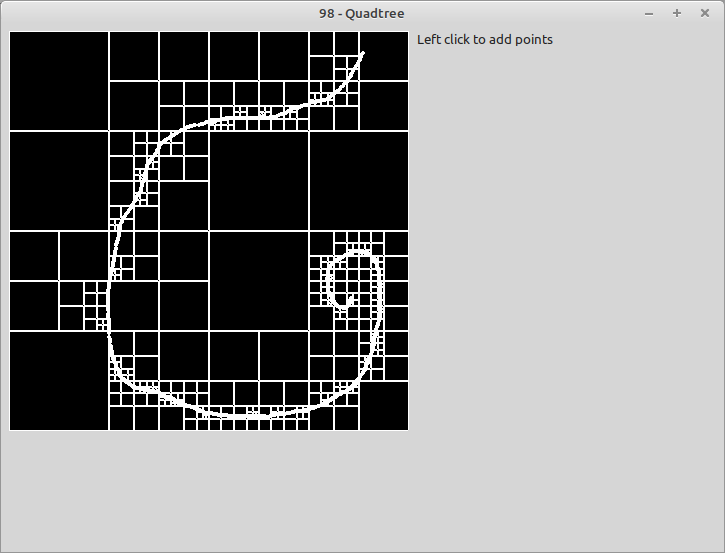
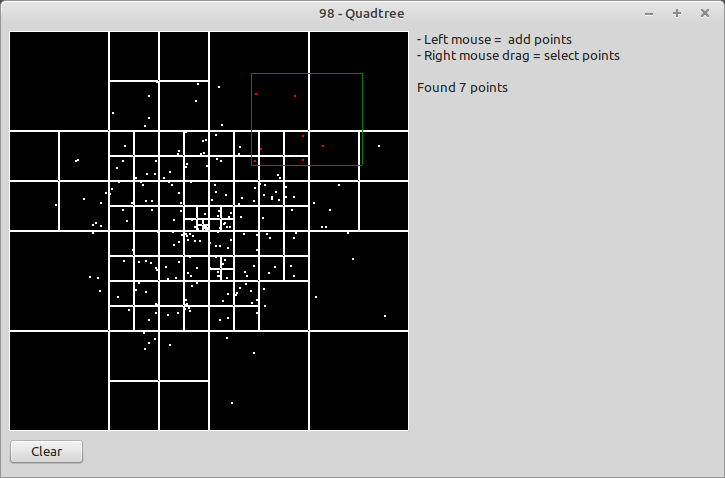
ADD: part2

Changed region(s): [[0.0, 0.0, 0.8497, 0.9958], [0.5766, 0.1757, 0.6979, 0.205]]

diff --git a/code/098 - QuadTree/Readme.md b/code/098 - QuadTree/Readme.md
@@ -7,6 +7,6 @@ The challange is split up into 3 videos
 - [Part2](https://www.youtube.com/watch?v=QQx_NmCIuCY)
 - [Part3](https://www.youtube.com/watch?v=z0YFFg_nBjw)
 
-> atm only part 1 is implemented
+> atm only part 1 ans 2 are implemented
 
 ![](preview.png)
